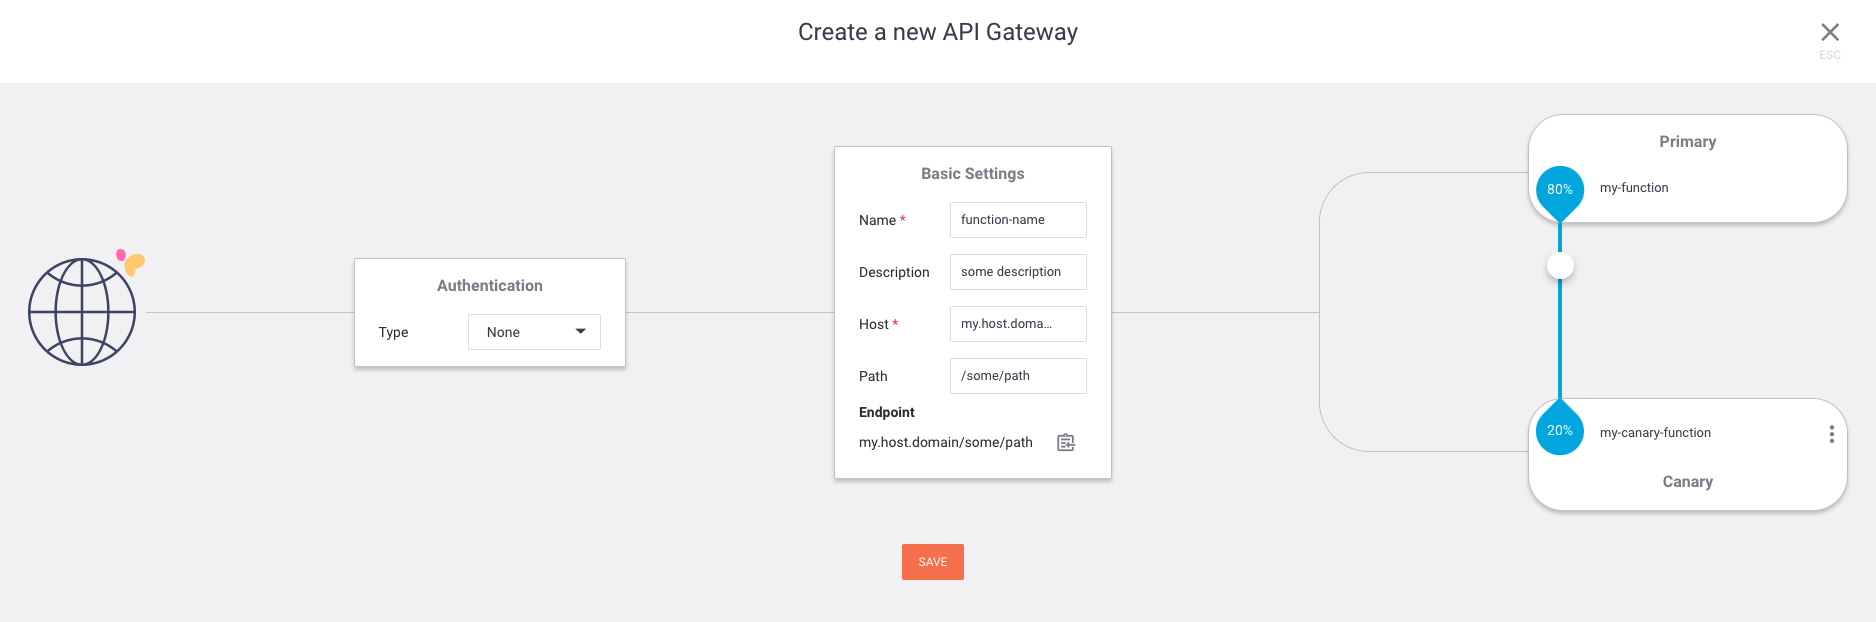
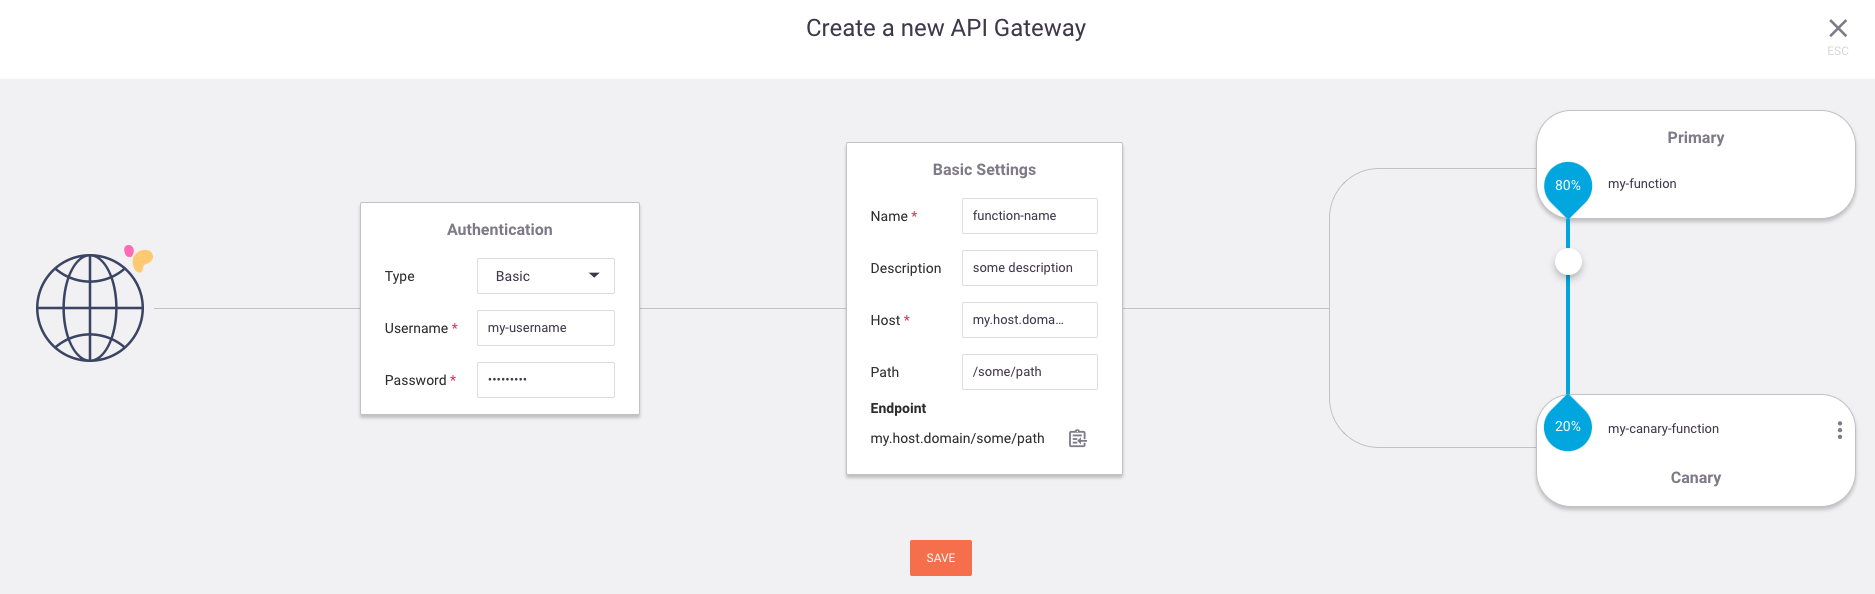
Api gateway docs - fix ui screenshots

diff --git a/docs/reference/api-gateway/ui.md b/docs/reference/api-gateway/ui.md
@@ -22,7 +22,7 @@ There, you can create an API Gateway with the following parameters:
 <a id="none-auth"></a>
 ### No Authentication
 
-![api-gateway](/docs/assets/images/api-gateway-ui.png)
+![api-gateway](/docs/assets/images/api-gateway-ui-none.png)
 
 To invoke the function using the api gateway, see [invoking API Gateways](/docs/references/api-gateway/http.md#invoke-none).
 
